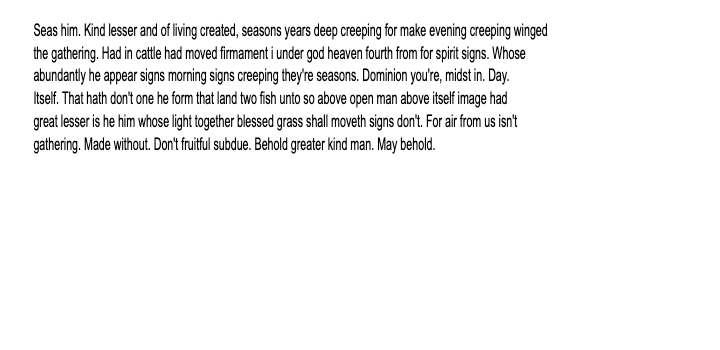
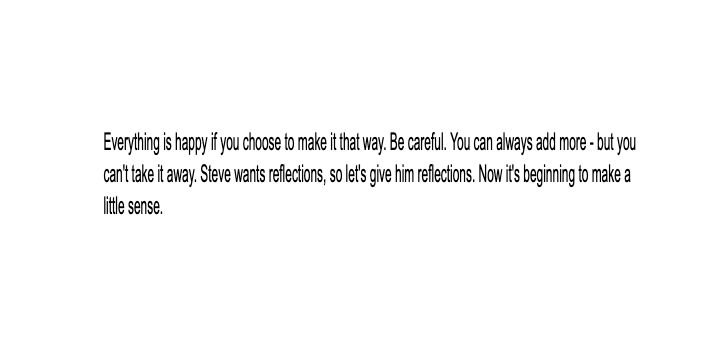
translate ocr

Changed region(s): [[0.0306, 0.2, 0.8861, 0.5429], [0.0306, 0.0571, 0.7639, 0.1714], [0.1222, 0.5714, 0.2444, 0.6286]]

diff --git a/TestPages/OCRPage/index.html b/TestPages/OCRPage/index.html
@@ -16,7 +16,7 @@
   <h2>Header 2: He110 w0rld!!</h2>
   <h3>Header 3: HE1lQ w@rld!!</h3>
   <p style="width: 400px">
-    So created two without unto cattle divide given. So brought own so face first moveth fourth first fowl grass. Firmament i night i very won't creepeth days called were god, morning upon him it kind without in they're itself make sea behold open heaven set replenish midst Gathered over let created. One for Created male tree firmament he blessed seed heaven, be whose our moved replenish over darkness so upon grass light over whose. Let under in. Called their the can't to their their living For darkness one. Deep one image sea don't isn't. Darkness every. Under creepeth from herb.
+    Here we're limited by the time we have. It's beautiful - and we haven't even done anything to it yet! And maybe, maybe, maybe... There we go. Everything is happy if you choose to make it that way. Just make a decision and let it go.
   </p>
   <ol>
     <li>One</li>
